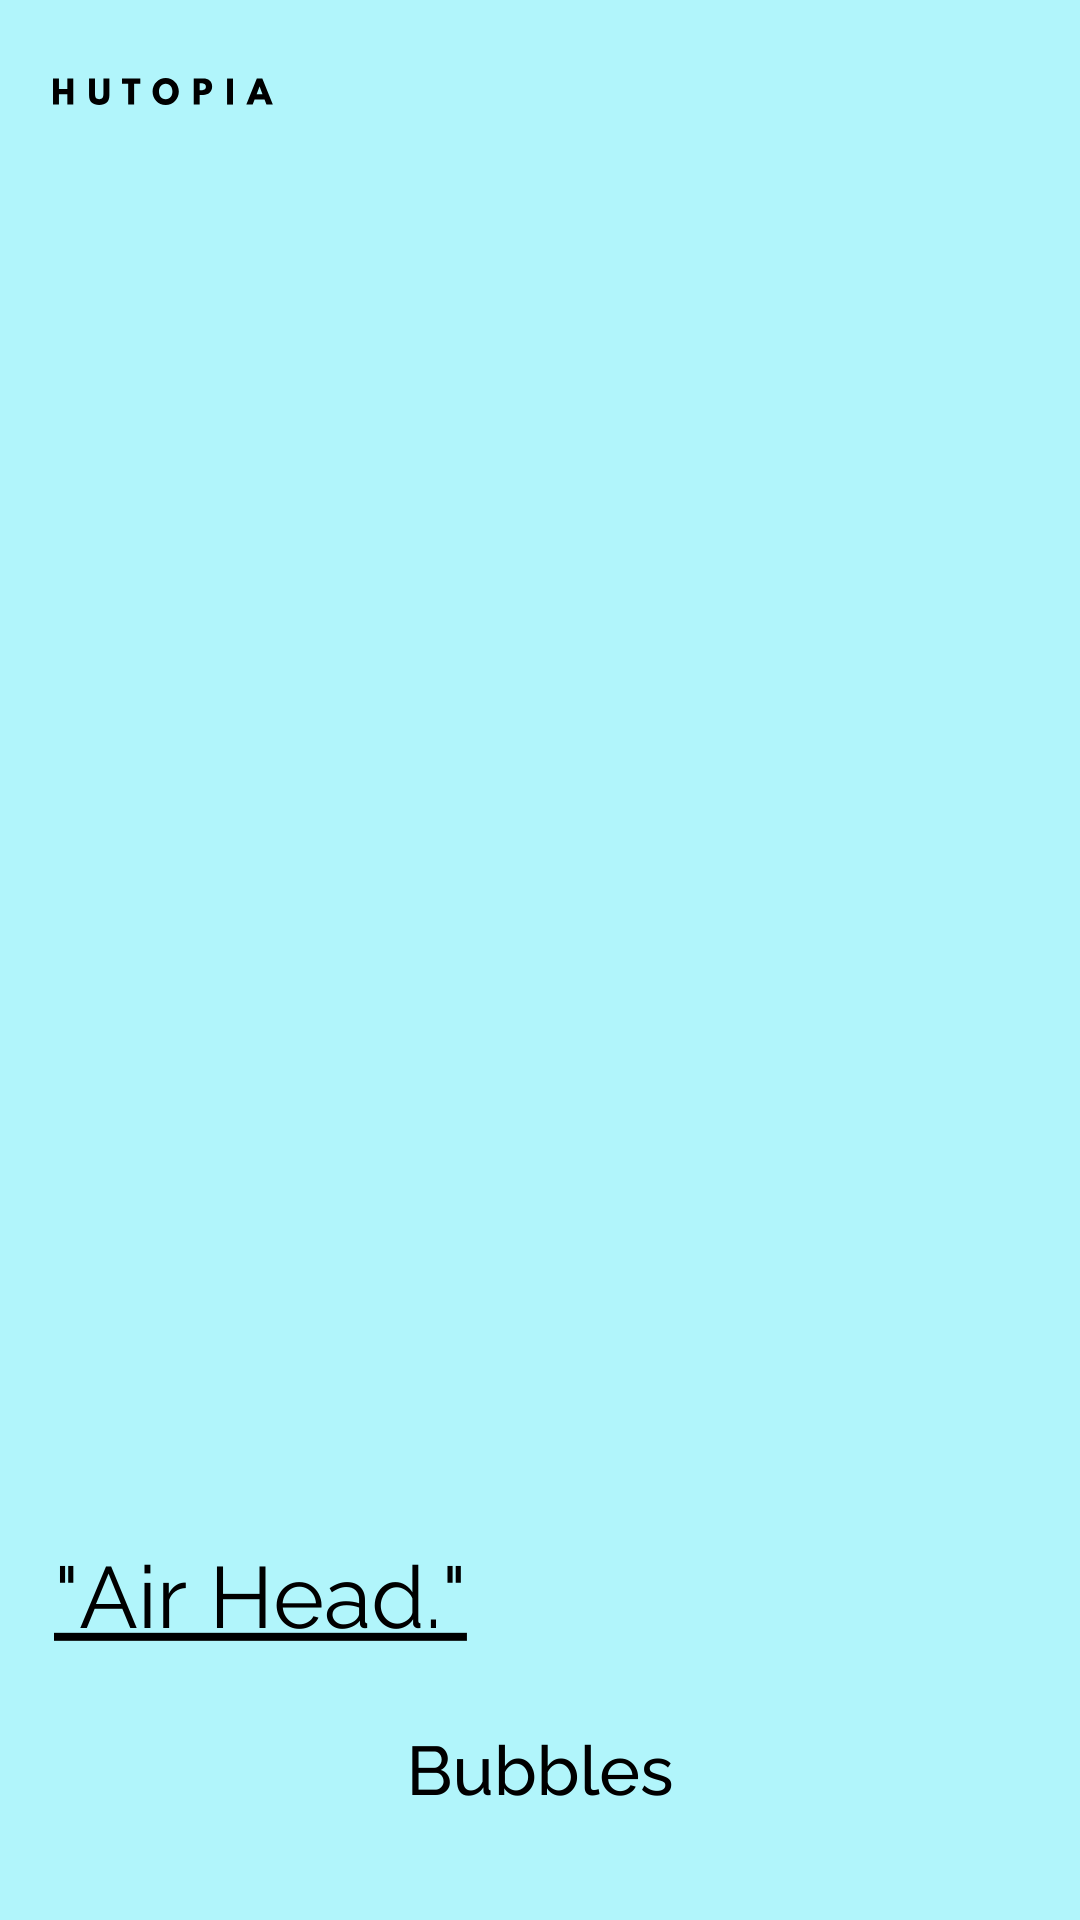
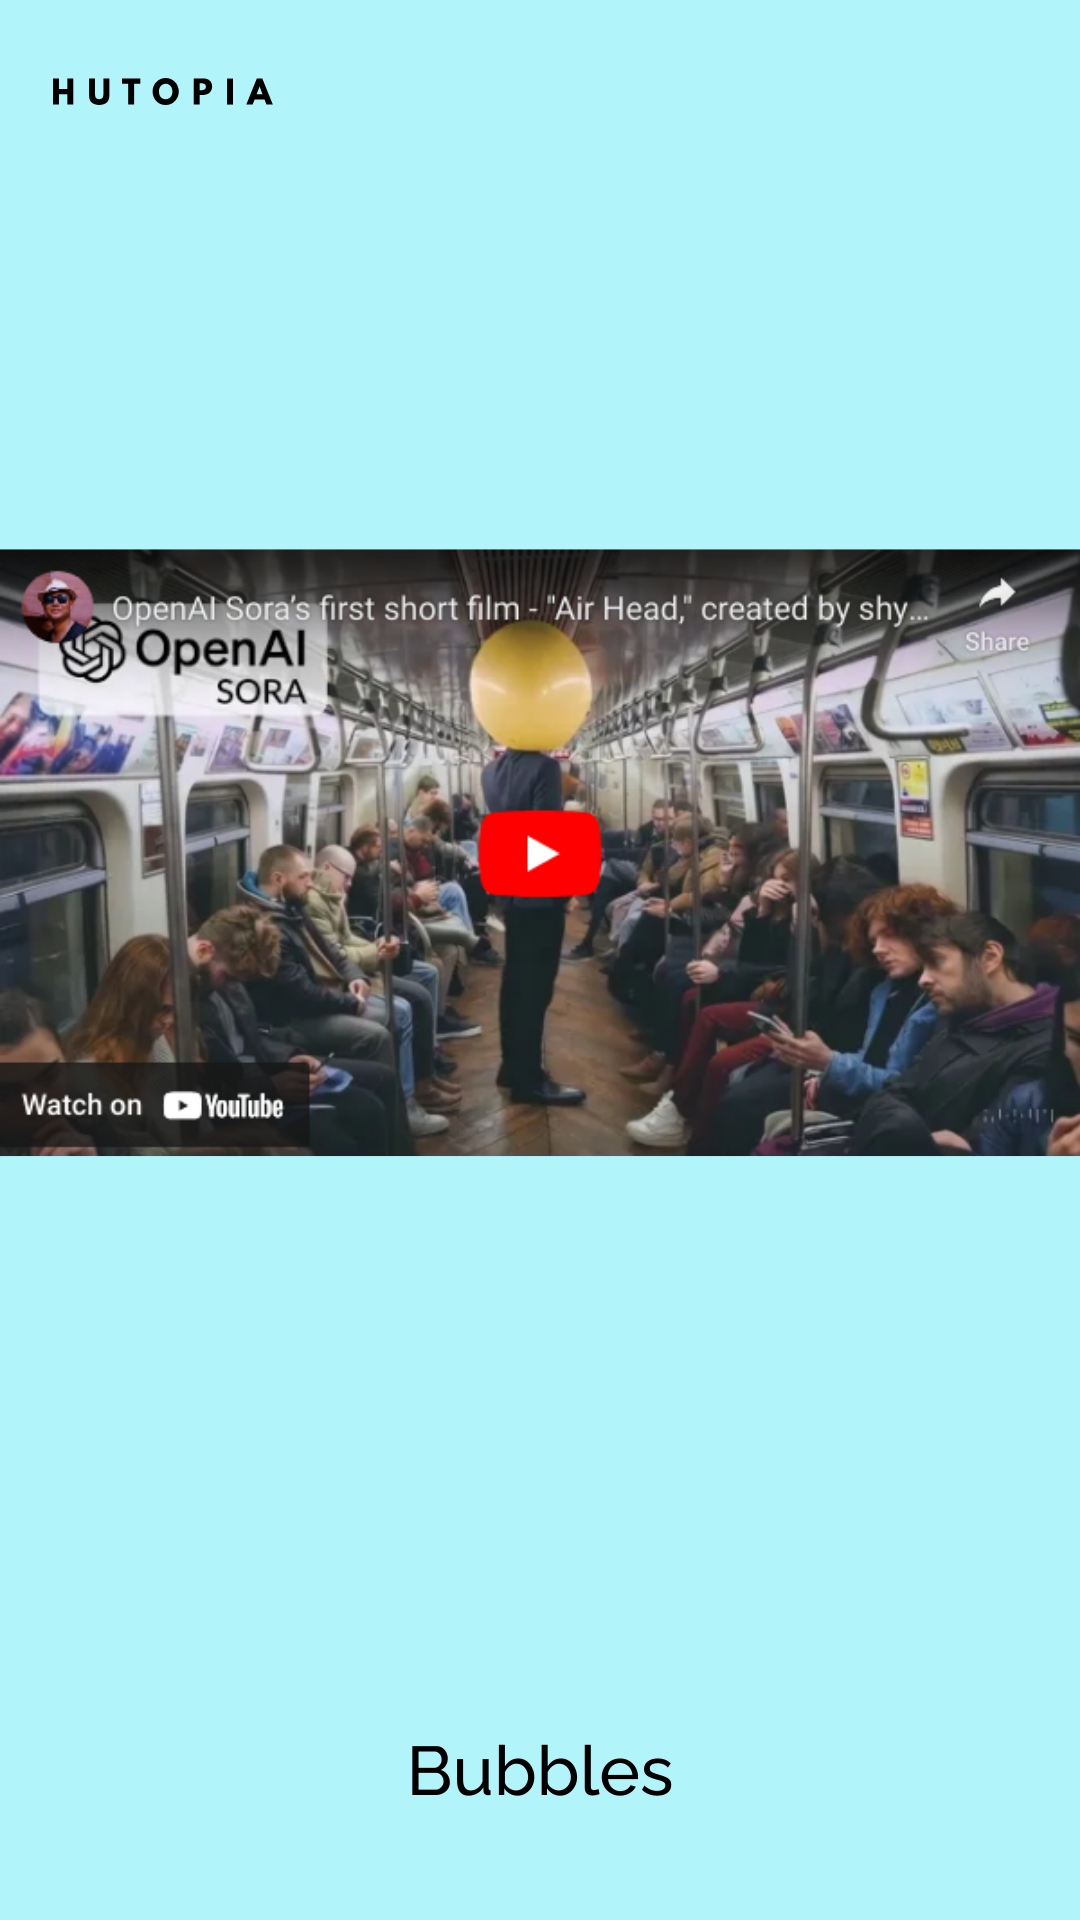
stories

diff --git a/story9.html b/story9.html
@@ -74,6 +74,8 @@
         }
       </style></noscript
     >
+     <script async custom-element="amp-youtube"
+  src="https://cdn.ampproject.org/v0/amp-youtube-0.1.js"></script>
  </head>
  <amp-story
       standalone
@@ -150,8 +152,12 @@
       </amp-story-page>
      <amp-story-page id="my-second-page">
         <amp-story-grid-layer template="fill">
-            <iframe width="900" height="1600" src="https://www.youtube.com/embed/yplb0yBEiRo?si=jGe6aCQvOlw39MWX" title="YouTube video player" frameborder="0" allow="accelerometer; autoplay; clipboard-write; encrypted-media; gyroscope; picture-in-picture; web-share" referrerpolicy="strict-origin-when-cross-origin" allowfullscreen></iframe>
-         
+          <amp-youtube data-videoid="G4wJ4WeJrz4"
+  layout="responsive"
+  width="560"
+  height="315">
+</amp-youtube>
+          
         </amp-story-grid-layer>
         <amp-story-grid-layer template="vertical">
         </amp-story-grid-layer>
